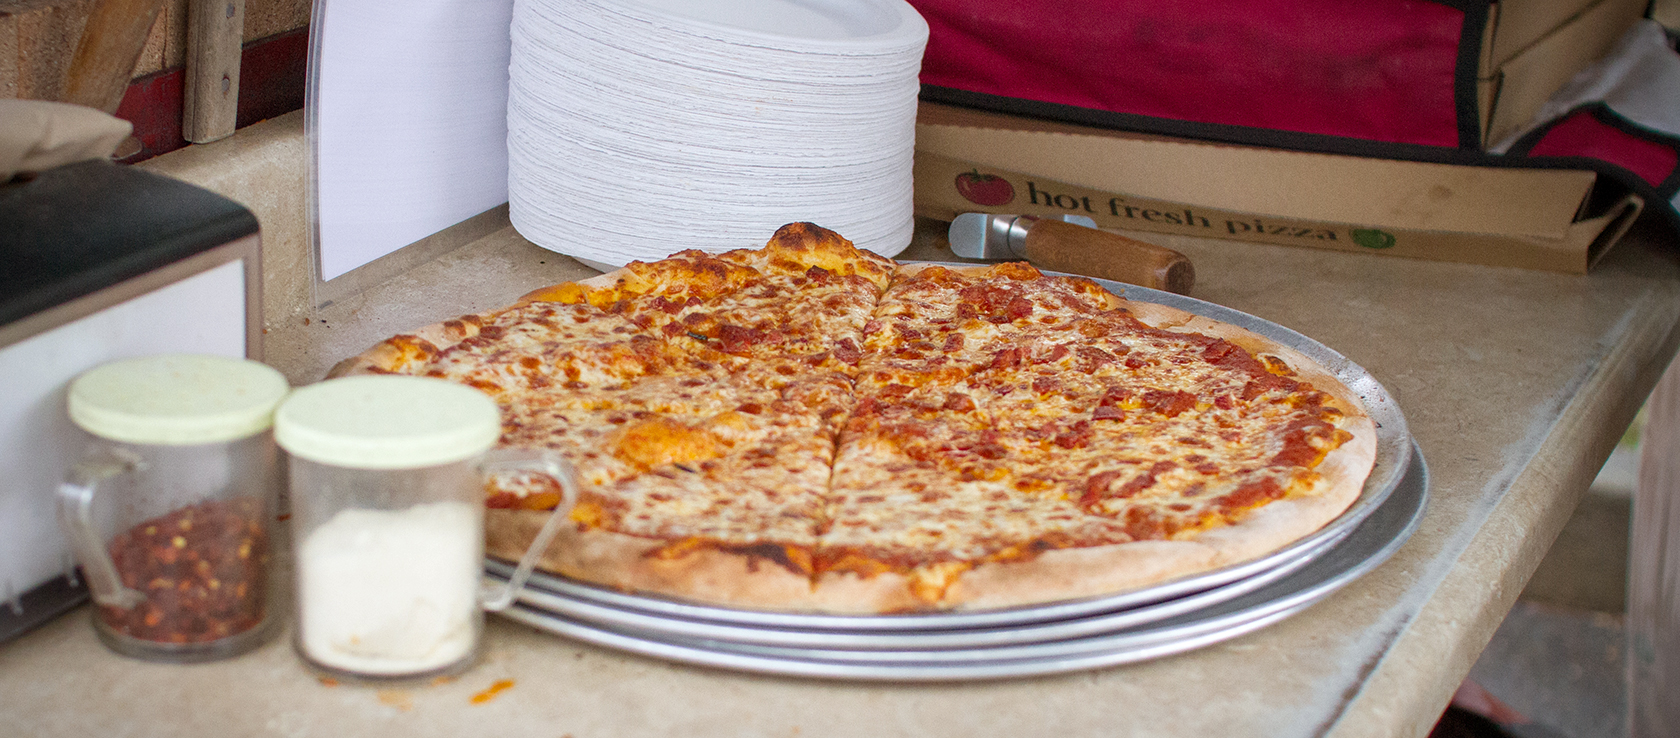
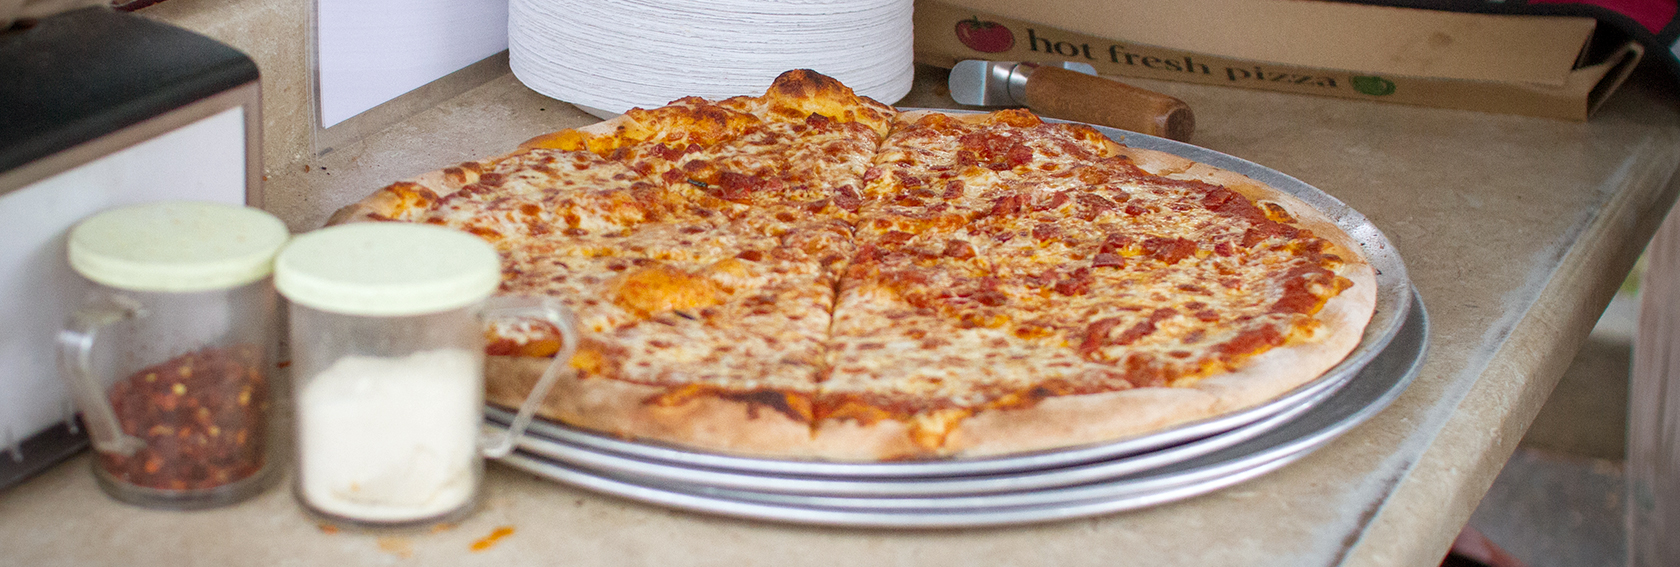
Image adjusting
Still can’t quite get the background image to stay at 100%
I’ve tried width 100% to no avail.

diff --git a/source/stylesheets/_partials/_style.scss b/source/stylesheets/_partials/_style.scss
@@ -1,9 +1,23 @@
+/* ||||||Catering||||||| */
+
 .backgroundColorCatering {
 	background-color: $brown;
 	height: 120px;
 	.container {
 		text-align: center;
 		color: $cream;
+		h3{
+			line-height: 1.8em;
+		}
+	}
+}
+
+.backgroundImageCatering{
+	h5{
+		text-transform: uppercase;
+		color: $cream;
+		line-height: 1.3em;
+		text-align: center;
 	}
 }
 

diff --git a/source/stylesheets/_partials/_images.scss b/source/stylesheets/_partials/_images.scss
@@ -9,7 +9,8 @@
 
 .backgroundImageCatering{
 	background-image: url('../../images/catering-image-1680.jpg');
-	padding: 10% 0;
+	padding: 1% 0;
+	
 }
 
 .backgroundImageFooter{
